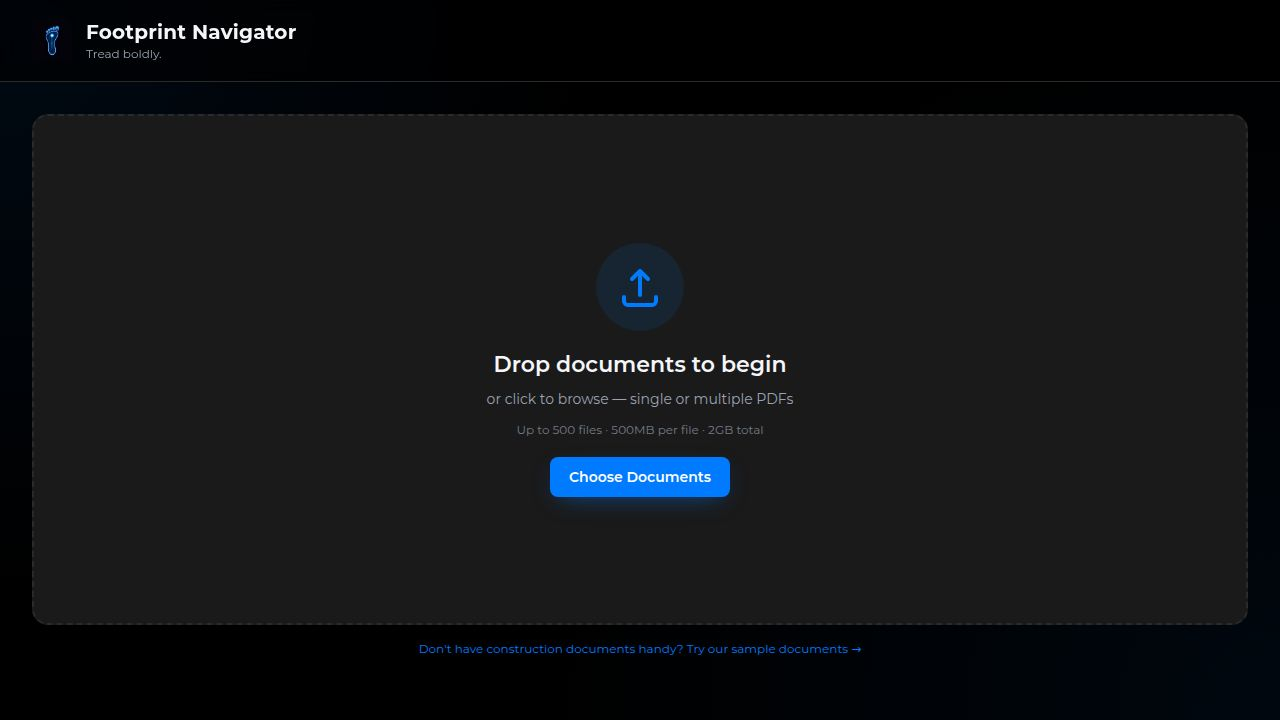
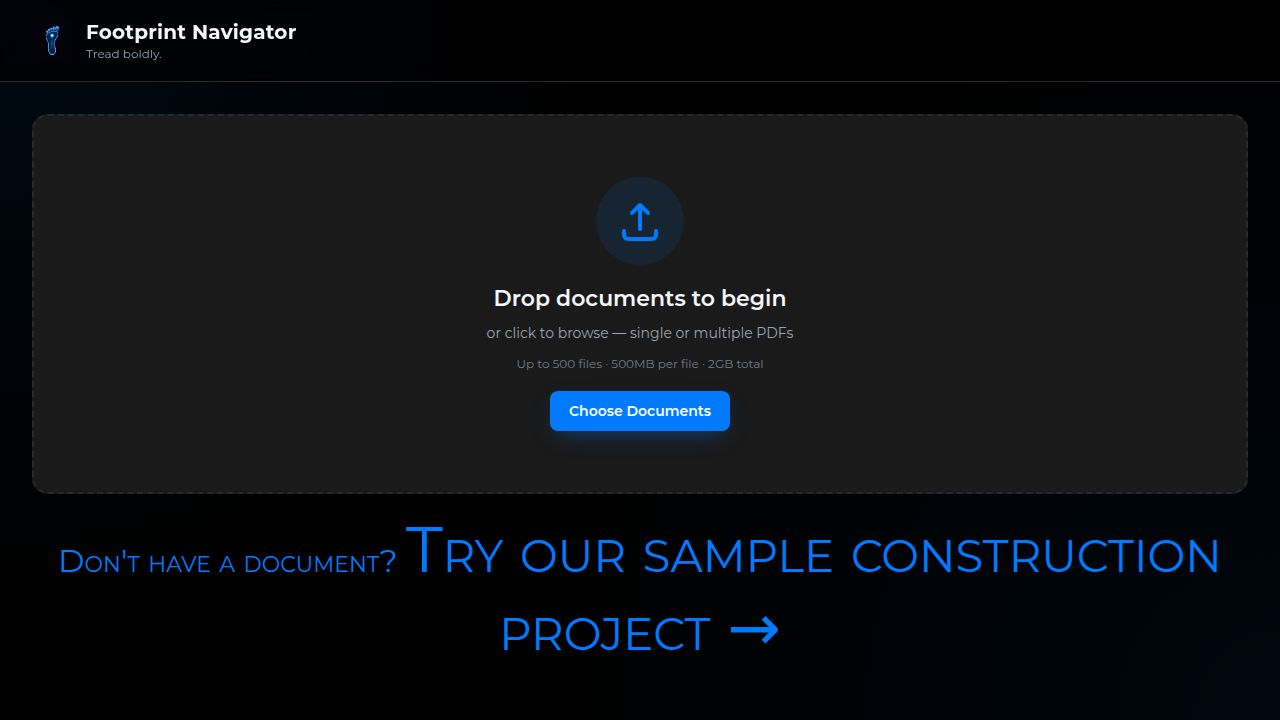
style: fix sample-link font-size 1em to prevent cascading em inflation

Changed region(s): [[0.0, 0.3667, 1.0, 0.9167], [0.4688, 0.2444, 0.5312, 0.3361]]

diff --git a/artifacts/footprint-pdf/web/src/styles.css b/artifacts/footprint-pdf/web/src/styles.css
@@ -102,7 +102,8 @@ button { font-family: inherit; }
 }
 .sample-link {
   background: transparent; border: none; cursor: pointer;
-  font-size: 12px; color: #007BFF; font-family: inherit;
+  font-size: 2em; color: #007BFF; font-family: inherit;
+  font-variant: small-caps;
   text-decoration: none;
   transition: color .15s, text-decoration-color .15s;
   padding: 0;
@@ -111,7 +112,7 @@ button { font-family: inherit; }
   color: #3395ff;
   text-decoration: underline; text-underline-offset: 3px;
 }
-.sample-link-cta { color: inherit; font-size: 2em; font-weight: 700; font-variant: small-caps; }
+.sample-link-cta { color: inherit; font-size: 2em; font-variant: small-caps; }
 
 .sample-modal-overlay {
   position: fixed; inset: 0; z-index: 900;